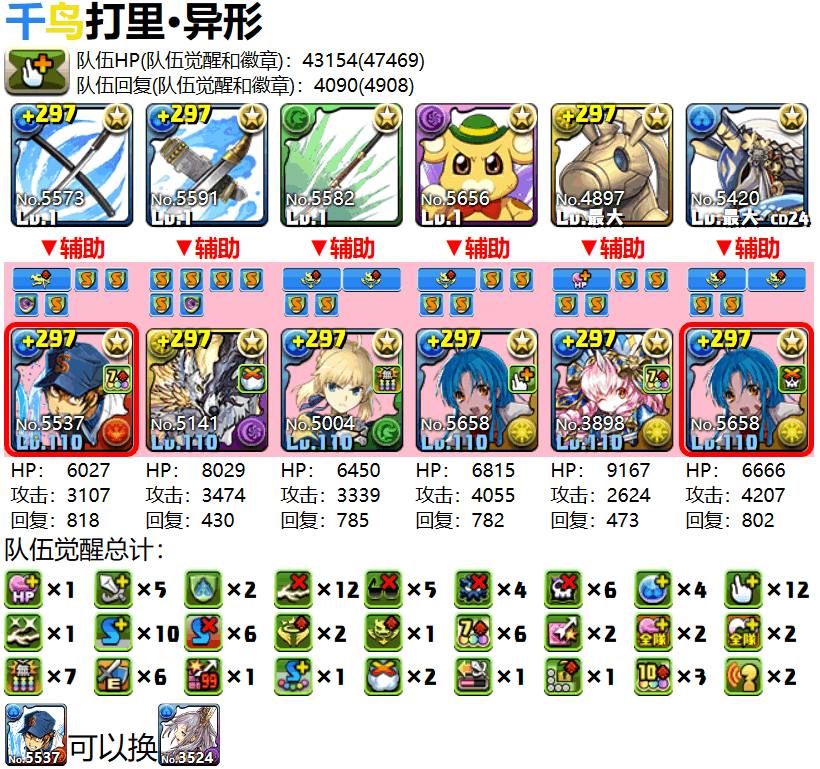
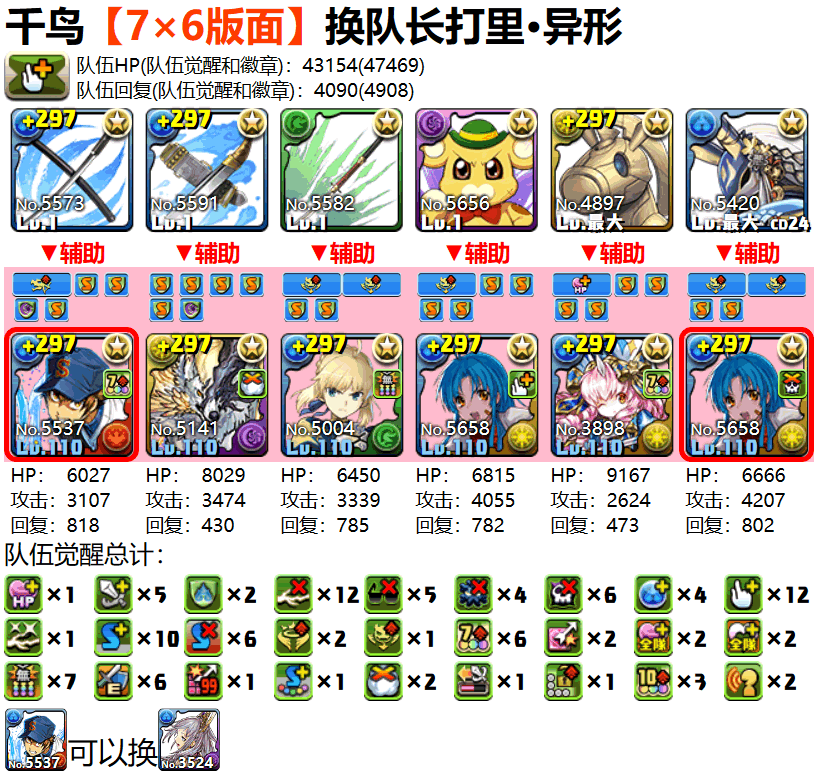
替换新的图片

diff --git a/README.md b/README.md
@@ -22,7 +22,7 @@ This tool can help you easily create and share Swipe Formation or Solo Formation
 
 ## [帮助和提示 | Help and Tips](help.md)
 
-### [单人示例 \| Solo Sample](//mapaler.github.io/PADDashFormation/solo.html?d={"t"%3A"^2288ff^千^p^eedd00^鸟^p打里·异形"%2C"d"%3A"%25{m5537}可以换%25{m3524}"%2C"f"%3A[[[[5537%2C110%2C9%2C99%2C[18%2C11%2C11%2C10%2C11]%2C1]%2C[5141%2C110%2C9%2C99%2C[11%2C11%2C11%2C11%2C11%2C10]%2C2]%2C[5004%2C110%2C9%2C99%2C[19%2C19%2C11%2C11]%2C0]%2C[5658%2C110%2C9%2C99%2C[19%2C11%2C11%2C11%2C11]%2C0]%2C[3898%2C110%2C9%2C99%2C[25%2C11%2C11%2C11%2C11]%2C0]%2C[5658%2C110%2C9%2C99%2C[19%2C19%2C11%2C11]%2C2]]%2C[[5573%2C1%2C7%2C99]%2C[5591%2C1%2C6%2C99]%2C[5582%2C1%2C6]%2C[5656%2C1%2C6]%2C[4897%2C99%2C5%2C99]%2C[5420%2C99%2C5%2Cnull%2Cnull%2Cnull%2C1]]]]%2C"b"%3A13})
+### [单人示例 \| Solo Sample](//mapaler.github.io/PADDashFormation/solo.html?d={"t"%3A"千鸟^ff3600^【7×6版面】^p换队长打里·异形"%2C"d"%3A"%25{m5537}可以换%25{m3524}"%2C"f"%3A[[[[5537%2C110%2C9%2C99%2C[18%2C11%2C11%2C10%2C11]%2C1]%2C[5141%2C110%2C9%2C99%2C[11%2C11%2C11%2C11%2C11%2C10]%2C2]%2C[5004%2C110%2C9%2C99%2C[19%2C19%2C11%2C11]%2C0]%2C[5658%2C110%2C9%2C99%2C[19%2C11%2C11%2C11%2C11]%2C0]%2C[3898%2C110%2C9%2C99%2C[25%2C11%2C11%2C11%2C11]%2C0]%2C[5658%2C110%2C9%2C99%2C[19%2C19%2C11%2C11]%2C2]]%2C[[5573%2C1%2C7%2C99]%2C[5591%2C1%2C6%2C99]%2C[5582%2C1%2C6]%2C[5656%2C1%2C6]%2C[4897%2C99%2C5%2C99]%2C[5420%2C99%2C5%2Cnull%2Cnull%2Cnull%2C1]]]]%2C"b"%3A13})
 ![单人界面预览](document/preview-capture-1p.png)
 ### [2P车队示例 \| 2P Multi Formation Sample](//mapaler.github.io/PADDashFormation/multi.html?d={"t"%3A"我的^2288FF^水^p车队%20|%20My%20^2288FF^Water^p%20Swip%20Formation"%2C"d"%3A"%25{m2186}最好换%25{m4877}\n%25{m4877}%20is%20better%20than%20%25{m2186}"%2C"f"%3A[[[[4691%2C104%2C9%2C99%2C[19%2C19%2C11%2C11]%2C1]%2C[2186%2C101%2C8%2C99%2C[20%2C20%2C20]%2C0]%2C[4877%2C101%2C9%2C99%2C[19%2C19%2C11%2C11]]%2C[4793%2C99%2C7%2C99]%2C[4877%2C101%2C9%2C99%2C[23%2C23%2C11%2C11]]]%2C[[4252%2C38%2C9]%2C[4394%2C1%2C3%2Cnull%2Cnull%2Cnull%2C1]%2C[4394%2C1%2C3%2Cnull%2Cnull%2Cnull%2C1]%2C[4155%2C1%2C7%2Cnull%2Cnull%2Cnull%2C1]%2C[4394%2C1%2C3%2Cnull%2Cnull%2Cnull%2C1]]]%2C[[[4691%2C110%2C9%2C99%2C[19%2C19%2C11%2C11]%2C1]%2C[4877%2C102%2C9%2C99%2C[19%2C19%2C11%2C11]]%2C[4877%2C101%2C9%2C99%2C[23%2C23%2C11%2C11]]%2C[4793%2C99%2C7%2C99%2C[21%2C21%2C21]]%2C[2186%2C101%2C8%2C99%2Cnull%2C0]]%2C[[4394%2C12%2C3%2Cnull%2Cnull%2Cnull%2C1]%2C[4394%2C1%2C3%2Cnull%2Cnull%2Cnull%2C1]%2C[4394%2C1%2C3%2C99%2Cnull%2Cnull%2C1]%2C[4155%2C1%2C7%2Cnull%2Cnull%2Cnull%2C1]%2C[4394%2C1%2C3%2Cnull%2Cnull%2Cnull%2C1]]]]})
 ![2人协力界面预览](document/preview-capture-2p.png)
